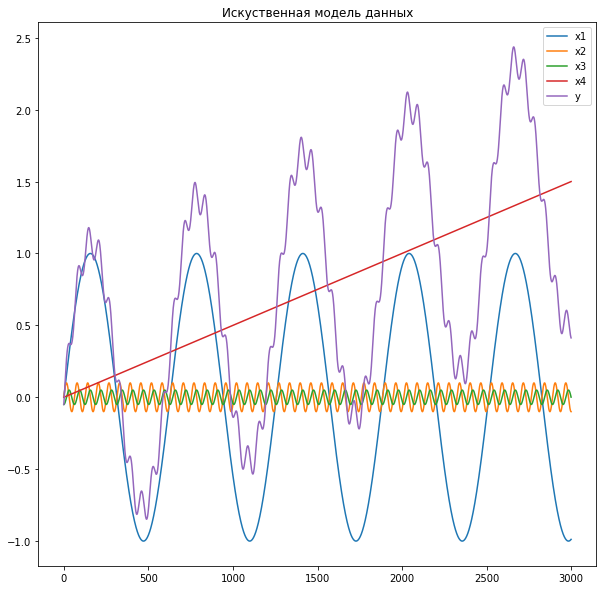
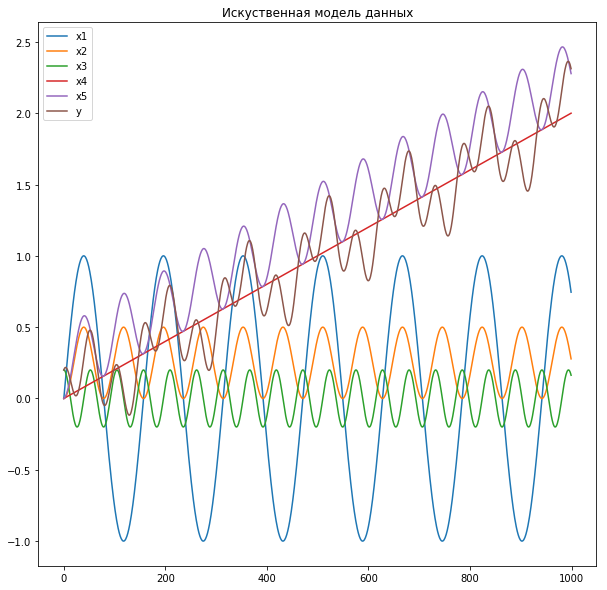
diploma the 2nd chapter

diff --git a/chapters/thesis-template-chapter4.tex b/chapters/thesis-template-chapter4.tex
@@ -67,28 +67,69 @@
 
 % Нужно помнить, что пользователем может быть не только <<менеджер>> или <<человек в белом халате>>, но и другой программист. Последнее относится, в первую очередь, к реализованным библиотекам. Для <<обычных>> приложений нередко бывают пользователи нескольких категорий --- например, обычный пользователь и администратор. Для каждой категории нужно описать, как выполняются основные функции, предпочтительно, с помощью серии скрин-шотов. Однако считается плохим тоном вставлять длинную вереницу из скрин-шотов: если их много, большую часть нужно выносить в приложение. Для \textit{этого} раздела нормальной является плотность скрин-шотов из расчета: 1 страница скрин-шотов на 1-2 страницы текста.
 
-\section{Сравнение разработанной системы с существующими}
+\section{Генерация тестовых данных}
 
 Проверить качество разработанной системы можно на искусственном наборе
-данных.
+данных. \ref{pic:example_data_formulas}
 
-\def\figurename{Формула}
+Имеет смысл использовать искусственные данные так как мы точно знаем
+зависимость между временными рядами.
+
+\def\figurename{Формулы}
 \begin{figure}[t]
-	\centering
-	$ x_1 = sin(10t) $,
-	$ x_2 = 0.1 sin(100t) $,
-	$ x_3 = -0.05 cos(100t) $,
-	$ x_4 = 0.5 t $,
-	$ x_5 =  $,
-	$ y =  $,
-	$ A_j(t+1) = p( A_j(t) + \sum_{i = 1, i \neq j}^{n} w_{ij} A_i(t) ) $,
+	\begin{center}
+	\begin{align*}
+		x_1 &= sin(10t) \\
+		x_2 &= 0.1 sin^2(100t) \\
+		x_3 &= -0.05 cos(30t)/5 \\
+		x_4 &= 0.5 t \\
+		x_5 &= x_2 + x_4\\
+		y   &= \frac{x_1}{5} + x_3 + x_4
+	\end{align*}
+	\end{center}
 	\caption{Формулы, по которым генерируется искусственный набор данных}
-	\label{img:concepts_recalc}
+	\label{pic:example_data_formulas}
 \end{figure}
 \noindent
 
+% todo мб добавить немного шума?
 
-![](img/example_data.png)
+\section{Тестирование разработанной системы}
+
+
+\def\figurename{Рис}
+\begin{figure}
+	\centering
+	\includegraphics[width=0.7\columnwidth]{./img/lstmfcm_empty.png}
+	\includegraphics[width=0.9\columnwidth]{./img/lstmfcm_empty_prediction.png}
+	\caption{Карта без связей концептов}
+	\label{pic:lstmfcm_empty}
+\end{figure}
+
+\begin{figure}
+	\centering
+	\includegraphics[width=0.7\columnwidth]{./img/lstmfcm_fc.png}
+	\includegraphics[width=0.9\columnwidth]{./img/lstmfcm_fc_prediction.png}
+	\caption{Полносвязная карта}
+	\label{pic:lstmfcm_fc}
+\end{figure}
+
+\begin{figure}
+	\centering
+	\includegraphics[width=0.7\textwidth]{./img/lstmfcm_meaningful.png}
+	\includegraphics[width=0.9\textwidth]{./img/lstmfcm_meaningful_prediction.png}
+	\caption{Карта с осмысленно расставленными связями}
+	\label{pic:lstmfcm_meaningful}
+\end{figure}
+
+
+
+\section{Сравнение разработанной системы с существующими}
+
+Было реализовано несколько модификаций разрабатываемой системы, а также
+протестированы некоторые существующие системы для решения задачи прогнозирования.
+
+
 
 \section{Моделирование с помощью разработанной системы}
 \begin{annotation}

diff --git a/chapters/thesis-template-bibl.tex b/chapters/thesis-template-bibl.tex
@@ -1,5 +1,5 @@
 \phantomsection
-%\addcontentsline{toc}{chapter}{\bibname}	% Добавляем список литературы в оглавление
+\addcontentsline{toc}{chapter}{\bibname}	% Добавляем список литературы в оглавление
 \bibliography{chapters/biblio}						% Подключаем BibTeX-базы
 
 %\addcontentsline{toc}{section}{Список литературы}
